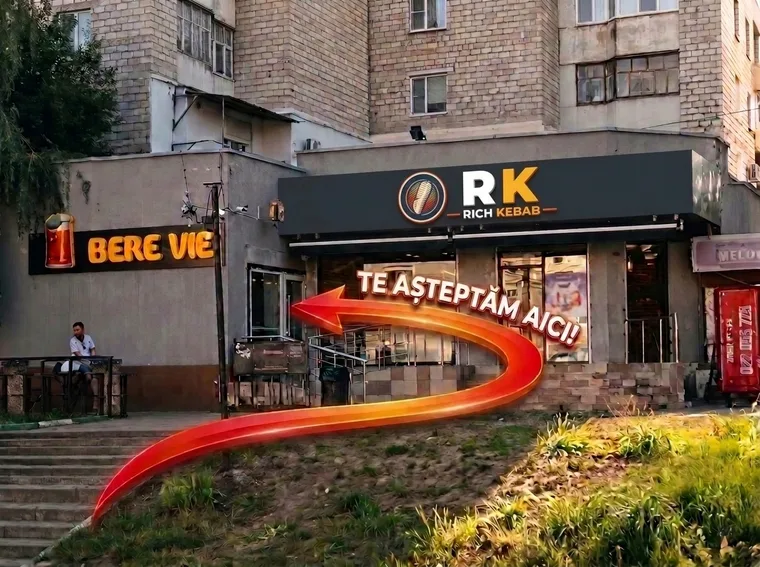
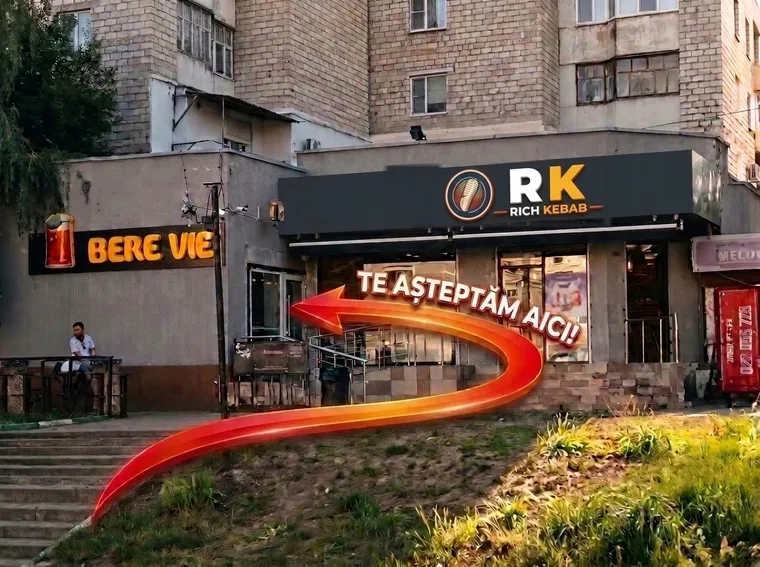
Pixel-exact midpoint alignment for RK Rich Kebab sign (?v=5)

Changed region(s): [[0.5145, 0.2698, 0.8171, 0.4198]]

diff --git a/ru/contact/index.html b/ru/contact/index.html
@@ -15,7 +15,7 @@
 
 <section class="section container contact-locs" aria-label="Два магазина в Кишинёве"><div class="contact-locations">
 <article class="contact-location"><div><p class="eyebrow small">01 / БОТАНИКА</p><h3>Куза Водэ 1/4</h3><p>Улица Куза Водэ 1/4, сектор Ботаника, Кишинёв, Республика Молдова.</p><p class="detail-small">Режим работы: ежедневно, 10:00–22:00.</p></div><div class="contact-actions"><a class="btn btn-outline" href="https://maps.app.goo.gl/LXgaJ6NnCcbJGiqSA?g_st=iw" target="_blank" rel="noopener noreferrer">Открыть карту<span aria-hidden="true">↗</span></a><a class="text-link" href="../locatii/#botanica">Подробнее →</a></div></article>
-<article class="contact-location"><div><p class="eyebrow small">02 / БУЮКАНЫ</p><h3>Алба Юлия 23</h3><p>Улица Алба Юлия 23, сектор Буюканы, Кишинёв, Республика Молдова.</p><p class="detail-small">Точный режим работы уточняйте в магазине.</p></div><div class="contact-actions"><a class="btn btn-outline" href="https://maps.app.goo.gl/xZLqAA5DeK2Dw2kd8?g_st=iw" target="_blank" rel="noopener noreferrer">Открыть карту<span aria-hidden="true">↗</span></a><a class="text-link" href="../locatii/#buiucani">Подробнее →</a></div></article></div></section><section class="container contact-photo"><img src="../../assets/images/find-us-arrow-760.webp?v=4" srcset="../../assets/images/find-us-arrow-760.webp?v=4 760w, ../../assets/images/find-us-arrow-1600.webp?v=4 1600w" sizes="(max-width: 700px) 100vw, 50vw" alt="Ориентир ко входу в пивной магазин: стрелка и надпись «Ждём вас здесь»" loading="eager" decoding="async" fetchpriority="high"><p class="image-caption">Ориентир — вывеска «Bere Vie» на фото.</p></section>
+<article class="contact-location"><div><p class="eyebrow small">02 / БУЮКАНЫ</p><h3>Алба Юлия 23</h3><p>Улица Алба Юлия 23, сектор Буюканы, Кишинёв, Республика Молдова.</p><p class="detail-small">Точный режим работы уточняйте в магазине.</p></div><div class="contact-actions"><a class="btn btn-outline" href="https://maps.app.goo.gl/xZLqAA5DeK2Dw2kd8?g_st=iw" target="_blank" rel="noopener noreferrer">Открыть карту<span aria-hidden="true">↗</span></a><a class="text-link" href="../locatii/#buiucani">Подробнее →</a></div></article></div></section><section class="container contact-photo"><img src="../../assets/images/find-us-arrow-760.webp?v=5" srcset="../../assets/images/find-us-arrow-760.webp?v=5 760w, ../../assets/images/find-us-arrow-1600.webp?v=5 1600w" sizes="(max-width: 700px) 100vw, 50vw" alt="Ориентир ко входу в пивной магазин: стрелка и надпись «Ждём вас здесь»" loading="eager" decoding="async" fetchpriority="high"><p class="image-caption">Ориентир — вывеска «Bere Vie» на фото.</p></section>
 <section class="contact-connect"><div class="container contact-connect-grid"><div><p class="eyebrow">ЕСТЬ ВОПРОС?</p><h2>Напишите.<br><em>Позвоните.</em></h2><p>Подскажем, какие сорта и закуски есть в наличии, сколько они стоят и как сделать заказ.</p></div><div class="contact-methods"><a href="tel:+37369482293"><span>ТЕЛЕФОН / ЗАКАЗЫ</span><strong>+373 69 482 293</strong><b aria-hidden="true">↗</b></a><a href="https://www.instagram.com/gym_beer90/" target="_blank" rel="noopener noreferrer"><span>INSTAGRAM / СООБЩЕНИЯ</span><strong>@gym_beer90</strong><b aria-hidden="true">↗</b></a></div></div></section></main><footer class="site-footer"><div class="container footer-top">
  <div class="footer-intro"><a class="brand brand-custom brand-footer" href="../index.html" aria-label="GYM BEER — главная страница"><img class="brand-image" src="../../assets/brand/gym-beer-horizontal.webp" width="190" height="56" alt="GYM BEER — Bere Vie" loading="lazy" decoding="async"></a><p>Хорошее пиво. Закуски под стать.<br>На Ботанике и Буюканах, Кишинёв.</p></div>
  <div class="footer-col"><h2>Разделы</h2><a href="../meniu/">Меню</a><a href="../galerie/">Фотогалерея</a><a href="../contact/">Контакты</a></div>

diff --git a/contact/index.html b/contact/index.html
@@ -15,7 +15,7 @@
 
 <section class="section container contact-locs" aria-label="Două locații în Chișinău"><div class="contact-locations">
 <article class="contact-location"><div><p class="eyebrow small">01 / BOTANICA</p><h3>Cuza Vodă 1/4</h3><p>Strada Cuza Vodă 1/4, sector Botanica, Chișinău, Republica Moldova.</p><p class="detail-small">Program publicat: zilnic, 10:00–22:00.</p></div><div class="contact-actions"><a class="btn btn-outline" href="https://maps.app.goo.gl/LXgaJ6NnCcbJGiqSA?g_st=iw" target="_blank" rel="noopener noreferrer">Deschide harta<span aria-hidden="true">↗</span></a><a class="text-link" href="../locatii/#botanica">Detalii locație →</a></div></article>
-<article class="contact-location"><div><p class="eyebrow small">02 / BUIUCANI</p><h3>Alba Iulia 23</h3><p>Strada Alba Iulia 23, sector Buiucani, Chișinău, Republica Moldova.</p><p class="detail-small">Programul exact se confirmă direct cu magazinul.</p></div><div class="contact-actions"><a class="btn btn-outline" href="https://maps.app.goo.gl/xZLqAA5DeK2Dw2kd8?g_st=iw" target="_blank" rel="noopener noreferrer">Deschide harta<span aria-hidden="true">↗</span></a><a class="text-link" href="../locatii/#buiucani">Detalii locație →</a></div></article></div></section><section class="container contact-photo"><img src="../assets/images/find-us-arrow-760.webp?v=4" srcset="../assets/images/find-us-arrow-760.webp?v=4 760w, ../assets/images/find-us-arrow-1600.webp?v=4 1600w" sizes="(max-width: 700px) 100vw, 50vw" alt="Imagine de orientare spre intrarea magazinului de bere, cu săgeată și textul Te așteptăm aici" loading="eager" decoding="async" fetchpriority="high"><p class="image-caption">Foto de orientare — urmează indicatorul „Bere Vie” din imagine.</p></section>
+<article class="contact-location"><div><p class="eyebrow small">02 / BUIUCANI</p><h3>Alba Iulia 23</h3><p>Strada Alba Iulia 23, sector Buiucani, Chișinău, Republica Moldova.</p><p class="detail-small">Programul exact se confirmă direct cu magazinul.</p></div><div class="contact-actions"><a class="btn btn-outline" href="https://maps.app.goo.gl/xZLqAA5DeK2Dw2kd8?g_st=iw" target="_blank" rel="noopener noreferrer">Deschide harta<span aria-hidden="true">↗</span></a><a class="text-link" href="../locatii/#buiucani">Detalii locație →</a></div></article></div></section><section class="container contact-photo"><img src="../assets/images/find-us-arrow-760.webp?v=5" srcset="../assets/images/find-us-arrow-760.webp?v=5 760w, ../assets/images/find-us-arrow-1600.webp?v=5 1600w" sizes="(max-width: 700px) 100vw, 50vw" alt="Imagine de orientare spre intrarea magazinului de bere, cu săgeată și textul Te așteptăm aici" loading="eager" decoding="async" fetchpriority="high"><p class="image-caption">Foto de orientare — urmează indicatorul „Bere Vie” din imagine.</p></section>
 <section class="contact-connect"><div class="container contact-connect-grid"><div><p class="eyebrow">VREI SĂ ÎNTREBI CEVA?</p><h2>Scrie-ne.<br><em>Sună-ne.</em></h2><p>Îți spunem ce sortimente și gustări sunt disponibile, cât costă și cum poți comanda.</p></div><div class="contact-methods"><a href="tel:+37369482293"><span>TELEFON / COMENZI</span><strong>+373 69 482 293</strong><b aria-hidden="true">↗</b></a><a href="https://www.instagram.com/gym_beer90/" target="_blank" rel="noopener noreferrer"><span>INSTAGRAM / MESAJE</span><strong>@gym_beer90</strong><b aria-hidden="true">↗</b></a></div></div></section></main><footer class="site-footer"><div class="container footer-top">
  <div class="footer-intro"><a class="brand brand-custom brand-footer" href="../index.html" aria-label="GYM BEER — pagina principală"><img class="brand-image" src="../assets/brand/gym-beer-horizontal.webp" width="190" height="56" alt="GYM BEER — Bere Vie" loading="lazy" decoding="async"></a><p>Bere bună. Gustări pe măsură.<br>În Botanica și Buiucani, Chișinău.</p></div>
  <div class="footer-col"><h2>Explorează</h2><a href="../meniu/">Meniu</a><a href="../galerie/">Galerie foto</a><a href="../contact/">Contact</a></div>

diff --git a/ru/locatii/index.html b/ru/locatii/index.html
@@ -39,7 +39,7 @@
 <div class="transport"><h3>Как добраться на общественном транспорте</h3>
 <p class="tr-stop">Ближайшая остановка: <strong>ул. Онисифор Гибу (~50 м)</strong></p>
 <div class="tr-row"><span class="tr-kind">Троллейбус</span><span class="tr-list"><span class="tr-num">3</span><span class="tr-num">21</span><span class="tr-num">22</span></span></div><div class="tr-row"><span class="tr-kind">Автобус</span><span class="tr-list"><span class="tr-num">3</span><span class="tr-num">26</span></span></div><div class="tr-row"><span class="tr-kind">Маршрутка</span><span class="tr-list"><span class="tr-num">122</span><span class="tr-num">172</span></span></div></div>
-<figure class="loc-photo" data-photo="../../assets/images/find-us-arrow-1600.webp?v=4" data-caption="GYM BEER Буюканы"><img src="../../assets/images/find-us-arrow-760.webp?v=4" alt="GYM BEER Буюканы" loading="lazy" decoding="async"></figure>
+<figure class="loc-photo" data-photo="../../assets/images/find-us-arrow-1600.webp?v=5" data-caption="GYM BEER Буюканы"><img src="../../assets/images/find-us-arrow-760.webp?v=5" alt="GYM BEER Буюканы" loading="lazy" decoding="async"></figure>
 </div>
 <div class="loc-map"><iframe title="Карта GYM BEER Буюканы" src="https://www.google.com/maps/embed?origin=mfe&pb=!1m12!1m8!1m3!1d2719.2925939385027!2d28.7766553!3d47.0344875!3m2!1i1024!2i768!4f13.1!2m1!1sGYM+BEER,+Strada+Alba+Iulia+23,+Chi%C8%99in%C4%83u!6i17" referrerpolicy="no-referrer-when-downgrade" allowfullscreen></iframe></div>
 </section>

diff --git a/locatii/index.html b/locatii/index.html
@@ -39,7 +39,7 @@
 <div class="transport"><h3>Cum ajungi cu transportul public</h3>
 <p class="tr-stop">Cea mai apropiată stație: <strong>str. Onisifor Ghibu (~50 m)</strong></p>
 <div class="tr-row"><span class="tr-kind">Troleibuz</span><span class="tr-list"><span class="tr-num">3</span><span class="tr-num">21</span><span class="tr-num">22</span></span></div><div class="tr-row"><span class="tr-kind">Autobuz</span><span class="tr-list"><span class="tr-num">3</span><span class="tr-num">26</span></span></div><div class="tr-row"><span class="tr-kind">Rutieră</span><span class="tr-list"><span class="tr-num">122</span><span class="tr-num">172</span></span></div></div>
-<figure class="loc-photo" data-photo="../assets/images/find-us-arrow-1600.webp?v=4" data-caption="GYM BEER Buiucani"><img src="../assets/images/find-us-arrow-760.webp?v=4" alt="GYM BEER Buiucani" loading="lazy" decoding="async"></figure>
+<figure class="loc-photo" data-photo="../assets/images/find-us-arrow-1600.webp?v=5" data-caption="GYM BEER Buiucani"><img src="../assets/images/find-us-arrow-760.webp?v=5" alt="GYM BEER Buiucani" loading="lazy" decoding="async"></figure>
 </div>
 <div class="loc-map"><iframe title="Harta GYM BEER Buiucani" src="https://www.google.com/maps/embed?origin=mfe&pb=!1m12!1m8!1m3!1d2719.2925939385027!2d28.7766553!3d47.0344875!3m2!1i1024!2i768!4f13.1!2m1!1sGYM+BEER,+Strada+Alba+Iulia+23,+Chi%C8%99in%C4%83u!6i17" referrerpolicy="no-referrer-when-downgrade" allowfullscreen></iframe></div>
 </section>
